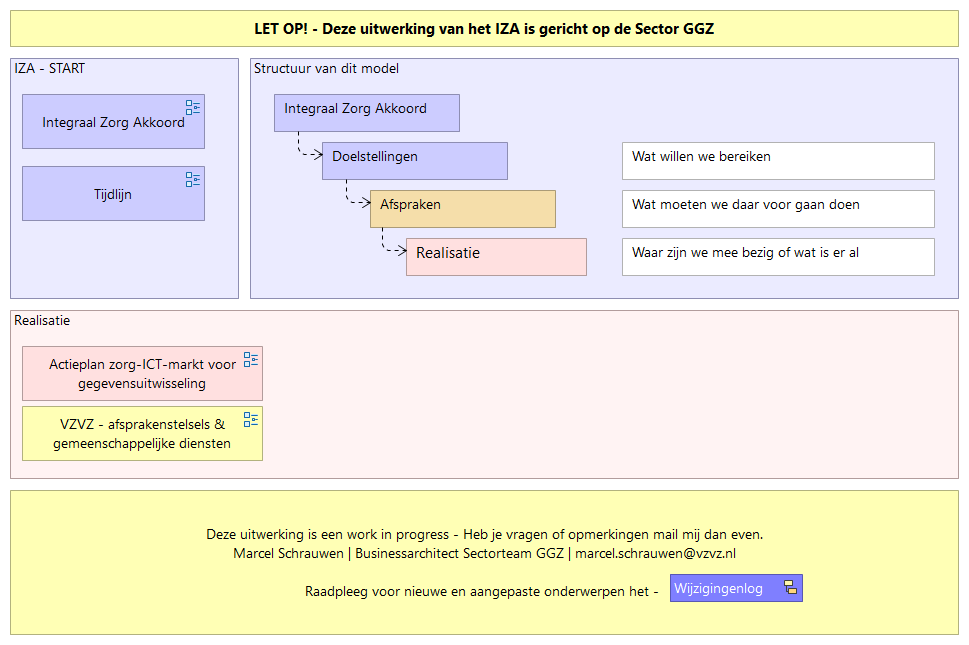
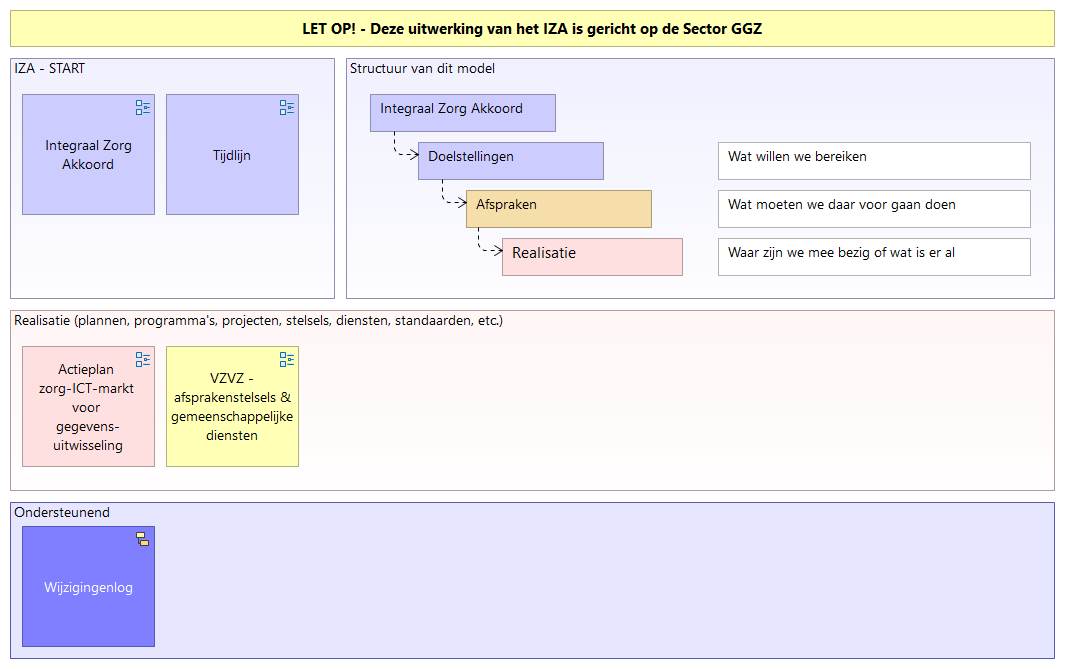
IZA update
Startmenu bijgewerkt waardoor deze visueel wat beter overkomt.

diff --git a/docs/RM_IZA/id-b46c5df653a343f4b715052c06b24c56/views/id-683b2f142f7049f4906691818671e8a9.html b/docs/RM_IZA/id-b46c5df653a343f4b715052c06b24c56/views/id-683b2f142f7049f4906691818671e8a9.html
@@ -32,32 +32,32 @@
 		    <!-- If this is a digram model (has children and no bounds) show the image -->
 			   <img class="diagram" src="../images/id-683b2f142f7049f4906691818671e8a9.png" alt="Start" usemap="#id-683b2f142f7049f4906691818671e8a9map"/>
 			   <map name="id-683b2f142f7049f4906691818671e8a9map">
-				          <area shape="rect" coords="10,10,959,47" href="../objects/id-1cedcd3485204753b200f7bd56435b36.html" target="element" >
-				  				<area shape="rect" coords="22,406,263,461" href="../views/id-3645dc3b63fa4696bfbc19a635465043.html"  target="view">
-				  		    <!-- Other diagram objects -->
-				  				<area shape="rect" coords="22,346,263,401" href="../views/id-e2d8fba101654a03bb2c5acecc8301d0.html"  target="view">
+				  				<area shape="rect" coords="22,526,155,647" href="../views/id-c900d11dca34470a9cef10c9261298b4.html"  target="view">
 				  		    <!-- Other diagram objects -->
 
-				          <area shape="rect" coords="10,310,959,479" href="../objects/id-fa6d10091d5145958fe049001b1e805e.html" target="element" >
-				  		        <area shape="rect" coords="622,238,935,276" href="../objects/id-e03b63573c95422eb0855518ef705bfa.html" target="element" >
-				  		        <area shape="rect" coords="622,190,935,228" href="../objects/id-4ec36f3fc598482e9c991725766d607a.html" target="element" >
-				  		        <area shape="rect" coords="622,142,935,180" href="../objects/id-53d66f27660c4819912c0bbdc932c056.html" target="element" >
-				  		        <area shape="rect" coords="406,238,587,276" href="../objects/id-8e1cb5c0a1cc4fc6b658514145c7f843.html" target="element" >
-				  		        <area shape="rect" coords="370,190,556,228" href="../objects/id-ba67e60823d7497cba5bd3c1c9f63a16.html" target="element" >
-				  		        <area shape="rect" coords="322,142,508,180" href="../objects/id-2b47d79ba6a24040b2ad2dc834cf2b32.html" target="element" >
-				  		        <area shape="rect" coords="274,94,460,132" href="../objects/id-dd22b43fb2d04dc8a7d0b9174d71f91c.html" target="element" >
-
-				          <area shape="rect" coords="250,58,959,299" href="../objects/id-4b885fe4d5aa4db9a5ec1357c6ee2fb8.html" target="element" >
-				  				<area shape="rect" coords="670,574,803,602" href="../views/id-c900d11dca34470a9cef10c9261298b4.html"  target="view">
+				          <area shape="rect" coords="10,502,1055,659" href="../objects/id-52b67c75bbe84b88b08ad27d8013e0d4.html" target="element" >
+				          <area shape="rect" coords="10,10,1055,47" href="../objects/id-1cedcd3485204753b200f7bd56435b36.html" target="element" >
+				  				<area shape="rect" coords="166,346,299,467" href="../views/id-3645dc3b63fa4696bfbc19a635465043.html"  target="view">
+				  		    <!-- Other diagram objects -->
+				  				<area shape="rect" coords="22,346,155,467" href="../views/id-e2d8fba101654a03bb2c5acecc8301d0.html"  target="view">
 				  		    <!-- Other diagram objects -->
 
-				          <area shape="rect" coords="10,490,959,635" href="../objects/id-210f3edaa4b74c97b02712345b62b70e.html" target="element" >
-				  				<area shape="rect" coords="22,166,205,221" href="../views/id-27c391ec02d74709bc8a397c85a7f13b.html"  target="view">
+				          <area shape="rect" coords="10,310,1055,491" href="../objects/id-fa6d10091d5145958fe049001b1e805e.html" target="element" >
+				  		        <area shape="rect" coords="718,238,1031,276" href="../objects/id-e03b63573c95422eb0855518ef705bfa.html" target="element" >
+				  		        <area shape="rect" coords="718,190,1031,228" href="../objects/id-4ec36f3fc598482e9c991725766d607a.html" target="element" >
+				  		        <area shape="rect" coords="718,142,1031,180" href="../objects/id-53d66f27660c4819912c0bbdc932c056.html" target="element" >
+				  		        <area shape="rect" coords="502,238,683,276" href="../objects/id-8e1cb5c0a1cc4fc6b658514145c7f843.html" target="element" >
+				  		        <area shape="rect" coords="466,190,652,228" href="../objects/id-ba67e60823d7497cba5bd3c1c9f63a16.html" target="element" >
+				  		        <area shape="rect" coords="418,142,604,180" href="../objects/id-2b47d79ba6a24040b2ad2dc834cf2b32.html" target="element" >
+				  		        <area shape="rect" coords="370,94,556,132" href="../objects/id-dd22b43fb2d04dc8a7d0b9174d71f91c.html" target="element" >
+
+				          <area shape="rect" coords="346,58,1055,299" href="../objects/id-4b885fe4d5aa4db9a5ec1357c6ee2fb8.html" target="element" >
+				  				<area shape="rect" coords="166,94,299,215" href="../views/id-27c391ec02d74709bc8a397c85a7f13b.html"  target="view">
 				  		    <!-- Other diagram objects -->
-				  				<area shape="rect" coords="22,94,205,149" href="../views/id-f0ec8fc6b8d94c5eb6643a0489a356ef.html"  target="view">
+				  				<area shape="rect" coords="22,94,155,215" href="../views/id-f0ec8fc6b8d94c5eb6643a0489a356ef.html"  target="view">
 				  		    <!-- Other diagram objects -->
 
-				          <area shape="rect" coords="10,58,239,299" href="../objects/id-f3105d7b75104690ae0697b20e69a597.html" target="element" >
+				          <area shape="rect" coords="10,58,335,299" href="../objects/id-f3105d7b75104690ae0697b20e69a597.html" target="element" >
 
 			   </map>
 
@@ -84,7 +84,10 @@ Welke waarde heeft deze publicatie voor de GGZ:
 - Welke thema's uit het IZA zijn belangrijk voor de Sector GGZ - Waar richt de sector zich zelf op - hoe kunnen we dat vanuit het sectorteam ondersteunen door onze tijd en energie aan de meest relevante onderwerpen voor de sector aan te besteden.
 
 IZA: https://www.rijksoverheid.nl/binaries/rijksoverheid/documenten/rapporten/2022/09/16/integraal-zorgakkoord-samen-werken-aan-gezonde-zorg/integraal-zorg-akkoord.pdf
-IZA samengevat: https://open.overheid.nl/repository/ronl-bfae762acc730a31c98e9c2480032cc2888c818e/1/pdf/samenvatting-integraal-zorgakkoord.pdf</div>
+IZA samengevat: https://open.overheid.nl/repository/ronl-bfae762acc730a31c98e9c2480032cc2888c818e/1/pdf/samenvatting-integraal-zorgakkoord.pdf
+
+Deze uitwerking is een work in progress - Heb je vragen of opmerkingen mail mij dan even.
+Marcel Schrauwen | Businessarchitect Sectorteam GGZ | marcel.schrauwen@vzvz.nl</div>
 					</div>
 					<div role="tabpanel" class="tab-pane" id="properties">
 						<table class="table table-striped table-hover table-condensed">
@@ -121,18 +124,6 @@ IZA samengevat: https://open.overheid.nl/repository/ronl-bfae762acc730a31c98e9c2
 													<tr>
 													    <td> <a href="../views/id-27c391ec02d74709bc8a397c85a7f13b.html" target="view"> Tijdlijn </a> </td>
 													    <td> <a href="../views/id-27c391ec02d74709bc8a397c85a7f13b.html" target="view" class="i18n-viewpoint-"> </a> </td>
-													</tr>
-											    <!-- Other graphical objects -->
-
-											
-									        <tr>
-									           <td> <a href="../objects/id-210f3edaa4b74c97b02712345b62b70e.html" target="element"> Sticky </a> </td>
-									           <td> <a href="../objects/id-210f3edaa4b74c97b02712345b62b70e.html" target="element" class="i18n-elementtype-SketchModelSticky"> </a> </td>
-									        </tr>
-
-													<tr>
-													    <td> <a href="../views/id-c900d11dca34470a9cef10c9261298b4.html" target="view"> Wijzigingenlog </a> </td>
-													    <td> <a href="../views/id-c900d11dca34470a9cef10c9261298b4.html" target="view" class="i18n-viewpoint-"> </a> </td>
 													</tr>
 											    <!-- Other graphical objects -->
 
@@ -179,7 +170,7 @@ IZA samengevat: https://open.overheid.nl/repository/ronl-bfae762acc730a31c98e9c2
 
 											
 									        <tr>
-									           <td> <a href="../objects/id-fa6d10091d5145958fe049001b1e805e.html" target="element"> Realisatie </a> </td>
+									           <td> <a href="../objects/id-fa6d10091d5145958fe049001b1e805e.html" target="element"> Realisatie (plannen, programma's, projecten, stelsels, diensten, standaarden, etc.) </a> </td>
 									           <td> <a href="../objects/id-fa6d10091d5145958fe049001b1e805e.html" target="element" class="i18n-elementtype-DiagramModelGroup"> </a> </td>
 									        </tr>
 
@@ -201,6 +192,18 @@ IZA samengevat: https://open.overheid.nl/repository/ronl-bfae762acc730a31c98e9c2
 									           <td> <a href="../objects/id-1cedcd3485204753b200f7bd56435b36.html" target="element" class="i18n-elementtype-SketchModelSticky"> </a> </td>
 									        </tr>
 
+									        <tr>
+									           <td> <a href="../objects/id-52b67c75bbe84b88b08ad27d8013e0d4.html" target="element"> Ondersteunend </a> </td>
+									           <td> <a href="../objects/id-52b67c75bbe84b88b08ad27d8013e0d4.html" target="element" class="i18n-elementtype-DiagramModelGroup"> </a> </td>
+									        </tr>
+
+													<tr>
+													    <td> <a href="../views/id-c900d11dca34470a9cef10c9261298b4.html" target="view"> Wijzigingenlog </a> </td>
+													    <td> <a href="../views/id-c900d11dca34470a9cef10c9261298b4.html" target="view" class="i18n-viewpoint-"> </a> </td>
+													</tr>
+											    <!-- Other graphical objects -->
+
+											
 
 								</tbody>
 							</table>
@@ -220,9 +223,6 @@ IZA samengevat: https://open.overheid.nl/repository/ronl-bfae762acc730a31c98e9c2
 													<!-- DEBUG: Skipping element from class com.archimatetool.model.impl.DiagramModelReference -->
 													<!-- DEBUG: Skipping element from class com.archimatetool.model.impl.DiagramModelReference -->
 											
-											<!-- DEBUG: Skipping element from class com.archimatetool.model.impl.SketchModelSticky -->
-													<!-- DEBUG: Skipping element from class com.archimatetool.model.impl.DiagramModelReference -->
-											
 											<!-- DEBUG: Skipping element from class com.archimatetool.model.impl.DiagramModelGroup -->
 													<!-- DEBUG: Skipping element from class com.archimatetool.model.impl.SketchModelSticky -->
 													<!-- DEBUG: Skipping element from class com.archimatetool.model.impl.SketchModelSticky -->
@@ -237,6 +237,9 @@ IZA samengevat: https://open.overheid.nl/repository/ronl-bfae762acc730a31c98e9c2
 													<!-- DEBUG: Skipping element from class com.archimatetool.model.impl.DiagramModelReference -->
 											
 											<!-- DEBUG: Skipping element from class com.archimatetool.model.impl.SketchModelSticky -->
+											<!-- DEBUG: Skipping element from class com.archimatetool.model.impl.DiagramModelGroup -->
+													<!-- DEBUG: Skipping element from class com.archimatetool.model.impl.DiagramModelReference -->
+											
 
 								</tbody>
 							</table>

diff --git a/docs/RM_IZA/id-b46c5df653a343f4b715052c06b24c56/elements/model.html b/docs/RM_IZA/id-b46c5df653a343f4b715052c06b24c56/elements/model.html
@@ -1161,15 +1161,15 @@
 									dataFoldersContent.push({folderid:"id-d0f5c07e04c140ffa6e5ce6d49050166", contentid:"id-6d497ff5a38849c4a613aee27991b132", contenttype:"Folder"});
 									dataFolders.push({id:"id-6d497ff5a38849c4a613aee27991b132", type:"Folder", name:decodeURL("00.+Start"), documentation:decodeURL("")});
 										dataFoldersContent.push({folderid:"id-6d497ff5a38849c4a613aee27991b132", contentid:"id-683b2f142f7049f4906691818671e8a9", contenttype:"SketchModel"});
-											dataViews.push({id:"id-683b2f142f7049f4906691818671e8a9", type:"SketchModel", name:decodeURL("Start"), documentation:decodeURL("In+dit+model+probeer+ik+het+Integraal+Zorg+Akkoord+te+ontrafelen+en+inzichtelijker+te+maken+door+deze+weer+te+geven+in+visuele+samenhang+en+relaties.%0D%0A%0D%0AWelke+waarde+heeft+deze+publicatie+voor+de+GGZ%3A%0D%0A-+Welke+thema%27s+uit+het+IZA+zijn+belangrijk+voor+de+Sector+GGZ+-+Waar+richt+de+sector+zich+zelf+op+-+hoe+kunnen+we+dat+vanuit+het+sectorteam+ondersteunen+door+onze+tijd+en+energie+aan+de+meest+relevante+onderwerpen+voor+de+sector+aan+te+besteden.%0D%0A%0D%0AIZA%3A+https%3A%2F%2Fwww.rijksoverheid.nl%2Fbinaries%2Frijksoverheid%2Fdocumenten%2Frapporten%2F2022%2F09%2F16%2Fintegraal-zorgakkoord-samen-werken-aan-gezonde-zorg%2Fintegraal-zorg-akkoord.pdf%0D%0AIZA+samengevat%3A+https%3A%2F%2Fopen.overheid.nl%2Frepository%2Fronl-bfae762acc730a31c98e9c2480032cc2888c818e%2F1%2Fpdf%2Fsamenvatting-integraal-zorgakkoord.pdf")});
+											dataViews.push({id:"id-683b2f142f7049f4906691818671e8a9", type:"SketchModel", name:decodeURL("Start"), documentation:decodeURL("In+dit+model+probeer+ik+het+Integraal+Zorg+Akkoord+te+ontrafelen+en+inzichtelijker+te+maken+door+deze+weer+te+geven+in+visuele+samenhang+en+relaties.%0D%0A%0D%0AWelke+waarde+heeft+deze+publicatie+voor+de+GGZ%3A%0D%0A-+Welke+thema%27s+uit+het+IZA+zijn+belangrijk+voor+de+Sector+GGZ+-+Waar+richt+de+sector+zich+zelf+op+-+hoe+kunnen+we+dat+vanuit+het+sectorteam+ondersteunen+door+onze+tijd+en+energie+aan+de+meest+relevante+onderwerpen+voor+de+sector+aan+te+besteden.%0D%0A%0D%0AIZA%3A+https%3A%2F%2Fwww.rijksoverheid.nl%2Fbinaries%2Frijksoverheid%2Fdocumenten%2Frapporten%2F2022%2F09%2F16%2Fintegraal-zorgakkoord-samen-werken-aan-gezonde-zorg%2Fintegraal-zorg-akkoord.pdf%0D%0AIZA+samengevat%3A+https%3A%2F%2Fopen.overheid.nl%2Frepository%2Fronl-bfae762acc730a31c98e9c2480032cc2888c818e%2F1%2Fpdf%2Fsamenvatting-integraal-zorgakkoord.pdf%0D%0A%0D%0ADeze+uitwerking+is+een+work+in+progress+-+Heb+je+vragen+of+opmerkingen+mail+mij+dan+even.%0D%0AMarcel+Schrauwen+%7C+Businessarchitect+Sectorteam+GGZ+%7C+marcel.schrauwen%40vzvz.nl")});
 															dataViewsContent.push({viewid:"id-683b2f142f7049f4906691818671e8a9", contentid:"id-f0ec8fc6b8d94c5eb6643a0489a356ef", contenttype:"ArchimateDiagramModel"});
 															dataViewsContent.push({viewid:"id-683b2f142f7049f4906691818671e8a9", contentid:"id-27c391ec02d74709bc8a397c85a7f13b", contenttype:"ArchimateDiagramModel"});
-													
-															dataViewsContent.push({viewid:"id-683b2f142f7049f4906691818671e8a9", contentid:"id-c900d11dca34470a9cef10c9261298b4", contenttype:"SketchModel"});
 													
 													
 															dataViewsContent.push({viewid:"id-683b2f142f7049f4906691818671e8a9", contentid:"id-e2d8fba101654a03bb2c5acecc8301d0", contenttype:"ArchimateDiagramModel"});
 															dataViewsContent.push({viewid:"id-683b2f142f7049f4906691818671e8a9", contentid:"id-3645dc3b63fa4696bfbc19a635465043", contenttype:"ArchimateDiagramModel"});
+													
+															dataViewsContent.push({viewid:"id-683b2f142f7049f4906691818671e8a9", contentid:"id-c900d11dca34470a9cef10c9261298b4", contenttype:"SketchModel"});
 													
 
 													

diff --git a/docs/RM_IZA/id-b46c5df653a343f4b715052c06b24c56/objects/id-52b67c75bbe84b88b08ad27d8013e0d4.html b/docs/RM_IZA/id-b46c5df653a343f4b715052c06b24c56/objects/id-52b67c75bbe84b88b08ad27d8013e0d4.html
@@ -2,7 +2,7 @@
 <html class="frame" lang="en">
 <head>
 	<meta http-equiv="Content-Type" content="text/html;charset=utf-8">
-	<title>Realisatie (plannen, programma's, projecten, stelsels, diensten, standaarden, etc.)</title>
+	<title>Ondersteunend</title>
 
 	<!-- JQUERY -->
 	<script type="text/javascript" src="../../lib/jquery/jquery.min.js"></script>
@@ -21,7 +21,7 @@
 
 		<div class="panel-heading root-panel-heading">
             <!-- Name -->
-               <b>Realisatie (plannen, programma's, projecten, stelsels, diensten, standaarden, etc.)</b>
+               <b>Ondersteunend</b>
 
             <!-- If a View with Viewpoint -->
 			   (<span class="i18n-elementtype-DiagramModelGroup"></span>)
@@ -48,7 +48,7 @@
 				<!-- Tab panes -->
 				<div class="tab-content">
 					<div role="tabpanel" class="tab-pane active" id="documentation">
-						<div class="convertlinks documentation" style="white-space:pre-wrap">Wat is er allemaal gaande dat moet bijdragen aan de realisatie van de doelen van het IZA</div>
+						<div class="convertlinks documentation" style="white-space:pre-wrap"></div>
 					</div>
 					<div role="tabpanel" class="tab-pane" id="properties">
 						<table class="table table-striped table-hover table-condensed">
@@ -72,14 +72,8 @@
 								</thead>
 								<tbody>
 											<tr>
-											    <td> <a href="../views/id-e2d8fba101654a03bb2c5acecc8301d0.html" target="view"> Actieplan zorg-ICT-markt voor gegevensuitwisseling </a> </td>
-											    <td> <a href="../views/id-e2d8fba101654a03bb2c5acecc8301d0.html" target="view" class="i18n-viewpoint-"> </a> </td>
-											</tr>
-									    <!-- Other graphical objects -->
-
-											<tr>
-											    <td> <a href="../views/id-3645dc3b63fa4696bfbc19a635465043.html" target="view"> VZVZ - afsprakenstelsels & gemeenschappelijke diensten </a> </td>
-											    <td> <a href="../views/id-3645dc3b63fa4696bfbc19a635465043.html" target="view" class="i18n-viewpoint-"> </a> </td>
+											    <td> <a href="../views/id-c900d11dca34470a9cef10c9261298b4.html" target="view"> Wijzigingenlog </a> </td>
+											    <td> <a href="../views/id-c900d11dca34470a9cef10c9261298b4.html" target="view" class="i18n-viewpoint-"> </a> </td>
 											</tr>
 									    <!-- Other graphical objects -->
 
@@ -98,7 +92,6 @@
 									</tr>
 								</thead>
 								<tbody>
-											<!-- DEBUG: Skipping element from class com.archimatetool.model.impl.DiagramModelReference -->
 											<!-- DEBUG: Skipping element from class com.archimatetool.model.impl.DiagramModelReference -->
 
 								</tbody>

diff --git a/docs/RM_IZA/id-b46c5df653a343f4b715052c06b24c56/objects/id-e4f46830bd514242ae561636c0081c28.html b/docs/RM_IZA/id-b46c5df653a343f4b715052c06b24c56/objects/id-e4f46830bd514242ae561636c0081c28.html
@@ -1,0 +1,67 @@
+<!DOCTYPE html>
+<html class="frame" lang="en">
+<head>
+	<meta http-equiv="Content-Type" content="text/html;charset=utf-8">
+	<title></title>
+
+	<!-- JQUERY -->
+	<script type="text/javascript" src="../../lib/jquery/jquery.min.js"></script>
+	<!-- BOOTSTRAP -->
+	<link type="text/css" rel="stylesheet" href="../../lib/bootstrap/css/bootstrap.min.yeti.css">
+	<script type="text/javascript" src="../../lib/bootstrap/js/bootstrap-3.3.2.min.js"></script>
+	<!-- REPORT SPECIFIC -->
+	<link type="text/css" rel="stylesheet" href="../../css/model.css">
+	<link type="text/css" rel="stylesheet" href="../../css/i18n.css">
+	<script type="text/javascript" src="../../js/frame.js"></script>
+	<script type="text/javascript" src="../../js/imageMapResizer.min.js"></script>
+</head>
+
+<body>
+	<div class="panel panel-default root-panel">
+
+		<div class="panel-heading root-panel-heading">
+            <!-- Name -->
+               <b class="i18n-elementtype-DiagramModelNote"></b>
+            <!-- If a View with Viewpoint -->
+			   (<span class="i18n-elementtype-DiagramModelNote"></span>)
+			   <a class="glyphicon glyphicon-info-sign" id="hint-DiagramModelNote" target="hint"></a>
+		</div>
+
+		<div class="panel-body root-panel-body">
+		    <!-- If this is a digram model (has children and no bounds) show the image -->
+
+			<div role="tabpanel">
+				<!-- Nav tabs -->
+				<ul class="nav nav-tabs" role="tablist">
+                    <!-- Purpose / Documentation / Content -->
+                       <li role="presentation" class="active"><a href="#documentation" aria-controls="documentation" role="tab" data-toggle="tab" class="i18n-content"></a></li>
+
+                    <!-- Properties -->
+                    <li role="presentation"><a href="#properties" aria-controls="properties" role="tab" data-toggle="tab" class="i18n-properties"></a></li>
+
+				</ul>
+
+				<!-- Tab panes -->
+				<div class="tab-content">
+					<div role="tabpanel" class="tab-pane active" id="documentation">
+						<div class="convertlinks documentation" style="white-space:pre-wrap">Deze tijdlijn moet nog beter gevuld worden.</div>
+					</div>
+					<div role="tabpanel" class="tab-pane" id="properties">
+						<table class="table table-striped table-hover table-condensed">
+							<thead>
+								<tr>
+									<th class="i18n-key"></th>
+									<th class="i18n-value"></th>
+								</tr>
+							</thead>
+							<tbody>
+							</tbody>
+						</table>
+					</div>
+			  </div>
+			</div>
+		</div>
+	</div>
+	<script type="text/javascript">imageMapResize();</script>
+</body>
+</html>

diff --git a/docs/RM_IZA/id-b46c5df653a343f4b715052c06b24c56/views/id-27c391ec02d74709bc8a397c85a7f13b.html b/docs/RM_IZA/id-b46c5df653a343f4b715052c06b24c56/views/id-27c391ec02d74709bc8a397c85a7f13b.html
@@ -33,6 +33,7 @@
 		    <!-- If this is a digram model (has children and no bounds) show the image -->
 			   <img class="diagram" src="../images/id-27c391ec02d74709bc8a397c85a7f13b.png" alt="Tijdlijn" usemap="#id-27c391ec02d74709bc8a397c85a7f13bmap"/>
 			   <map name="id-27c391ec02d74709bc8a397c85a7f13bmap">
+				          <area shape="rect" coords="226,322,788,402" href="../objects/id-e4f46830bd514242ae561636c0081c28.html" target="element" >
 				  				<area shape="rect" coords="442,262,464,282" href="../views/id-0405ada3d8d248fba29a1ad817ede661.html"  target="view">
 				  		    <!-- Other diagram objects -->
 
@@ -145,6 +146,11 @@
 											    <!-- Other graphical objects -->
 
 											
+									        <tr>
+									           <td> <a href="../objects/id-e4f46830bd514242ae561636c0081c28.html" target="element">  </a> </td>
+									           <td> <a href="../objects/id-e4f46830bd514242ae561636c0081c28.html" target="element" class="i18n-elementtype-DiagramModelNote"> </a> </td>
+									        </tr>
+
 
 								</tbody>
 							</table>
@@ -188,6 +194,7 @@
 
 													<!-- DEBUG: Skipping element from class com.archimatetool.model.impl.DiagramModelReference -->
 											
+											<!-- DEBUG: Skipping element from class com.archimatetool.model.impl.DiagramModelNote -->
 
 								</tbody>
 							</table>
